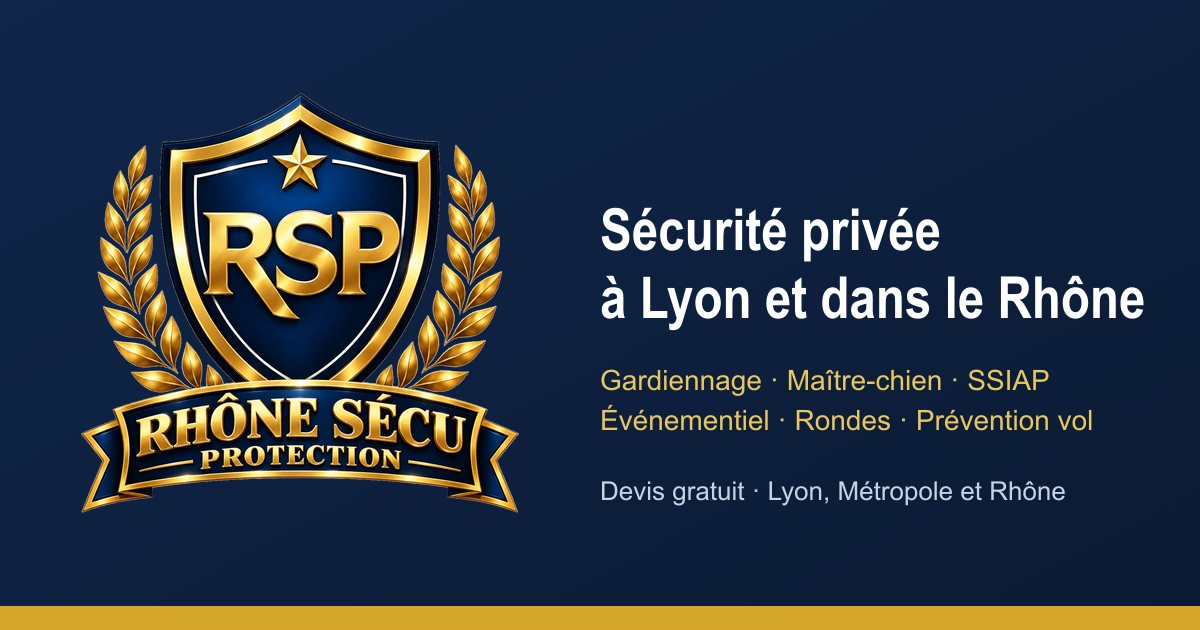
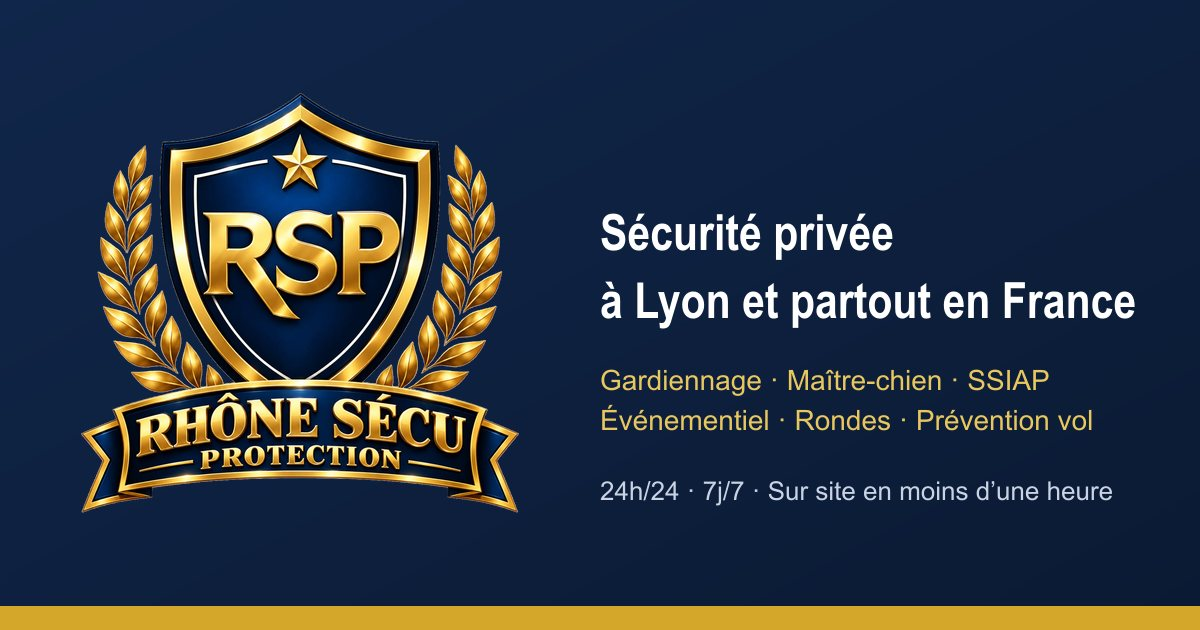
Couverture nationale et disponibilité 24h/24 sur tout le site
Lyon et partout en France, 24h/24 et 7j/7, 365 jours par an, un agent
sur site en moins d'une heure : accroches, méta-descriptions, pages
zones, services, contact, à propos, recrutement, pied de page, FAQ,
JSON-LD (areaServed France), llms.txt et image de partage.

Changed region(s): [[0.4933, 0.3317, 0.9558, 0.5429], [0.4933, 0.754, 0.925, 0.8143]]

diff --git a/site/src/app/page.tsx b/site/src/app/page.tsx
@@ -12,7 +12,7 @@ import { ServiceCard, ServiceCtaCard, ArticleCard } from '@/components/cards';
 export const metadata = pageMeta({
   title: 'Société de sécurité privée à Lyon | Rhône Sécu Protection',
   description:
-    'Gardiennage, agents de sécurité, maître-chien, SSIAP, sécurité événementielle, rondes et intervention à Lyon et dans le Rhône. Devis gratuit.',
+    'Gardiennage, agents de sécurité, maître-chien, SSIAP, sécurité événementielle, rondes et intervention à Lyon et partout en France, 24h/24 et 7j/7. Devis gratuit.',
   path: '/',
 });
 
@@ -45,8 +45,8 @@ const reasons = [
   },
   {
     icon: 'pin' as const,
-    title: 'Une entreprise du Rhône',
-    text: 'Nous connaissons Lyon, sa métropole et ses zones d’activité : des agents proches de vos sites, des déplacements courts.',
+    title: 'Basés à Lyon, présents partout en France',
+    text: 'Nous connaissons Lyon et ses zones d’activité, et nous intervenons partout en France : un agent sur votre site en moins d’une heure, de jour comme de nuit.',
   },
 ];
 
@@ -72,7 +72,11 @@ const faqs = [
   },
   {
     q: 'Dans quelles villes intervenez-vous ?',
-    a: 'À Lyon et dans toute la Métropole (Villeurbanne, Vénissieux, Vaulx-en-Velin, Bron, Saint-Priest, Caluire…) ainsi que dans le département du Rhône, jusqu’à Villefranche-sur-Saône.',
+    a: 'À Lyon et dans toute la Métropole (Villeurbanne, Vénissieux, Vaulx-en-Velin, Bron, Saint-Priest, Caluire…) dans tout le Rhône et partout en France. Où que soit votre site, un agent peut être sur place en moins d’une heure.',
+  },
+  {
+    q: 'Êtes-vous joignables la nuit, le week-end et les jours fériés ?',
+    a: 'Oui. Nous sommes disponibles 24h/24 et 7j/7, 365 jours par an, jours fériés compris.',
   },
   {
     q: 'Quelle différence entre un agent de sécurité et une ronde ?',
@@ -103,13 +107,13 @@ export default function HomePage() {
         />
         <div className="hero__veil" aria-hidden="true" />
         <div className="container hero__content">
-          <p className="eyebrow eyebrow--light">Sécurité privée · Lyon &amp; Rhône</p>
+          <p className="eyebrow eyebrow--light">Sécurité privée · Lyon &amp; partout en France</p>
           <h1 className="hero__title">
             Société de sécurité privée à <em>Lyon</em>
           </h1>
           <p className="hero__lead">
             Rhône Sécu Protection protège vos sites, vos équipes et votre public : gardiennage, maître-chien, sécurité
-            incendie, événementiel, rondes et intervention sur alarme, dans la Métropole de Lyon et tout le Rhône.
+            incendie, événementiel, rondes et intervention sur alarme, à Lyon et partout en France, 24h/24 et 7j/7.
           </p>
           <div className="hero__actions">
             <Link href="/contact/" className="btn btn--primary">
@@ -130,10 +134,13 @@ export default function HomePage() {
               <Icon name="badge" size={18} /> Agents titulaires de la carte CNAPS
             </li>
             <li>
-              <Icon name="clock" size={18} /> Jour, nuit, week-ends et jours fériés
+              <Icon name="clock" size={18} /> Disponibles 24h/24 et 7j/7
             </li>
             <li>
-              <Icon name="check" size={18} /> Missions ponctuelles ou contrats
+              <Icon name="check" size={18} /> Intervention 365 jours par an
+            </li>
+            <li>
+              <Icon name="bolt" size={18} /> Un agent sur votre site en moins d’une heure, à Lyon et partout en France
             </li>
           </ul>
         </div>
@@ -262,10 +269,10 @@ export default function HomePage() {
           />
           <div>
             <p className="eyebrow">Zones d’intervention</p>
-            <h2 className="section__title">Lyon, la Métropole et tout le Rhône</h2>
+            <h2 className="section__title">Lyon, le Rhône et partout en France</h2>
             <p>
-              Nos agents interviennent dans les 9 arrondissements de Lyon, dans les communes de la Métropole et dans le
-              département du Rhône.
+              Nos agents interviennent dans les 9 arrondissements de Lyon, dans les communes de la Métropole, dans tout le
+              Rhône et partout en France, avec un agent sur votre site en moins d’une heure.
             </p>
             <ul className="zones" style={{ marginBottom: '1.5rem' }}>
               {mainCities.map((c) => (

diff --git a/site/src/app/zones-intervention/page.tsx b/site/src/app/zones-intervention/page.tsx
@@ -7,9 +7,9 @@ import { Breadcrumbs, CtaBand, JsonLd } from '@/components/bits';
 import { Icon } from '@/components/Icon';
 
 export const metadata = pageMeta({
-  title: 'Zones d’intervention : Lyon, Métropole et Rhône | RSP',
+  title: 'Zones d’intervention : Lyon, Rhône et toute la France | RSP',
   description:
-    'Agents de sécurité à Lyon, Villeurbanne, Vénissieux, Vaulx-en-Velin, Bron, Saint-Priest, Caluire et dans tout le Rhône jusqu’à Villefranche-sur-Saône.',
+    'Agents de sécurité à Lyon, Villeurbanne, Vénissieux, Vaulx-en-Velin, Bron, Saint-Priest, Caluire, dans tout le Rhône et partout en France. Un agent sur site en moins d’une heure, 24h/24.',
   path: '/zones-intervention/',
 });
 
@@ -34,6 +34,11 @@ const groups = [
     cities: site.zones.rhone,
     text: 'Au-delà de la Métropole, nous sécurisons entreprises, chantiers et événements dans le Rhône, du Beaujolais à l’Ouest lyonnais, avec des missions planifiées ou ponctuelles.',
   },
+  {
+    title: 'Partout en France',
+    cities: [] as string[],
+    text: 'Votre site est hors du Rhône ? Nous intervenons partout en France, 24h/24 et 7j/7, 365 jours par an : un agent de sécurité sur votre site en moins d’une heure, pour une mission ponctuelle comme pour un contrat.',
+  },
 ];
 
 export default function ZonesPage() {
@@ -44,10 +49,10 @@ export default function ZonesPage() {
         <div className="container">
           <Breadcrumbs items={crumbs} />
           <p className="eyebrow">Zones d’intervention</p>
-          <h1 className="page-head__title">Sécurité privée à Lyon, dans la Métropole et le Rhône</h1>
+          <h1 className="page-head__title">Sécurité privée à Lyon et partout en France</h1>
           <p className="page-head__lead">
-            Rhône Sécu Protection intervient sur tout le territoire du Rhône. Une ville ne figure pas dans la liste ?
-            Contactez-nous : nous étudions chaque demande.
+            Rhône Sécu Protection intervient à Lyon, dans tout le Rhône et partout en France, 24h/24 et 7j/7. Votre ville ne
+            figure pas dans la liste ? Contactez-nous : un agent peut être sur place en moins d’une heure.
           </p>
         </div>
       </header>
@@ -58,13 +63,15 @@ export default function ZonesPage() {
             <article key={g.title} className="zone-group">
               <h2>{g.title}</h2>
               <p>{g.text}</p>
-              <ul className="zones">
+              {g.cities.length > 0 && (
+                <ul className="zones">
                 {g.cities.map((c) => (
                   <li key={c}>
                     <Icon name="pin" size={16} /> {c}
                   </li>
                 ))}
-              </ul>
+                </ul>
+              )}
             </article>
           ))}
         </div>
@@ -73,15 +80,15 @@ export default function ZonesPage() {
       <section className="section section--mist">
         <div className="container">
           <div className="section__head">
-            <p className="eyebrow">Sur toutes ces communes</p>
-            <h2 className="section__title">Toutes nos prestations, partout dans le Rhône</h2>
+            <p className="eyebrow">Partout où vous êtes</p>
+            <h2 className="section__title">Toutes nos prestations, partout en France</h2>
           </div>
           <ul className="checklist" style={{ columns: '18rem', display: 'block' }}>
             {services.map((s) => (
               <li key={s.slug} style={{ marginBottom: '0.65rem', breakInside: 'avoid' }}>
                 <Icon name="check" size={18} />{' '}
                 <Link href={s.path}>
-                  {s.short} à Lyon et dans le Rhône
+                  {s.short} à Lyon et partout en France
                 </Link>
               </li>
             ))}
@@ -89,7 +96,7 @@ export default function ZonesPage() {
         </div>
       </section>
 
-      <CtaBand title="Votre site est dans le Rhône ?" />
+      <CtaBand title="Votre site est à Lyon ou ailleurs en France ?" />
       <JsonLd data={breadcrumbLd(crumbs)} />
     </>
   );

diff --git a/site/src/lib/jsonld.ts b/site/src/lib/jsonld.ts
@@ -12,13 +12,14 @@ const RHONE = {
   containedInPlace: { '@type': 'Country', name: 'France', identifier: 'FR' },
 };
 
-/** Communes desservies : chaque ville rattachée au Rhône, lui-même en France. */
+/** Zone desservie : les communes du Rhône (chacune rattachée au département), puis toute la France. */
 function areaServed() {
   const cities = [...new Set(['Lyon', ...site.zones.metropole, ...site.zones.rhone])];
   return [
     ...cities.map((name) => ({ '@type': 'City', name, containedInPlace: RHONE })),
     { '@type': 'AdministrativeArea', name: 'Métropole de Lyon' },
     RHONE,
+    { '@type': 'Country', name: 'France', identifier: 'FR' },
   ];
 }
 
@@ -38,7 +39,7 @@ export function businessLd() {
         name: site.name,
         alternateName: site.shortName,
         description:
-          'Entreprise de sécurité privée à Lyon et dans le Rhône : gardiennage, agents de sécurité, maître-chien, sécurité incendie SSIAP, sécurité événementielle, rondes et intervention sur alarme, prévention des vols en magasin, gardiennage de chantier.',
+          'Entreprise de sécurité privée à Lyon et partout en France, disponible 24h/24 et 7j/7 : gardiennage, agents de sécurité, maître-chien, sécurité incendie SSIAP, sécurité événementielle, rondes et intervention sur alarme, prévention des vols en magasin, gardiennage de chantier.',
         url: canonical('/'),
         logo: { '@type': 'ImageObject', url: `${site.baseUrl}/brand/logo-rsp.png` },
         image: `${site.baseUrl}${media.hero.src}`,

diff --git a/site/src/app/services/page.tsx b/site/src/app/services/page.tsx
@@ -7,7 +7,7 @@ import { ServiceCard, ServiceCtaCard } from '@/components/cards';
 export const metadata = pageMeta({
   title: 'Prestations de sécurité privée à Lyon | RSP',
   description:
-    'Gardiennage, maître-chien, SSIAP, événementiel, rondes, sécurité magasin et chantier : nos prestations de sécurité privée à Lyon et dans le Rhône.',
+    'Gardiennage, maître-chien, SSIAP, événementiel, rondes, sécurité magasin et chantier : nos prestations de sécurité privée à Lyon et partout en France, 24h/24 et 7j/7.',
   path: '/services/',
 });
 
@@ -24,7 +24,7 @@ export default function ServicesPage() {
         <div className="container">
           <Breadcrumbs items={crumbs} />
           <p className="eyebrow">Nos services</p>
-          <h1 className="page-head__title">Prestations de sécurité privée à Lyon et dans le Rhône</h1>
+          <h1 className="page-head__title">Prestations de sécurité privée à Lyon et partout en France</h1>
           <p className="page-head__lead">
             Sept métiers complémentaires, combinables selon votre site : de l’agent en poste fixe à l’équipe
             cynophile, du contrôle des entrées d’un concert à la levée de doute sur alarme.

diff --git a/site/src/app/a-propos/page.tsx b/site/src/app/a-propos/page.tsx
@@ -66,8 +66,8 @@ export default function AboutPage() {
               connaissent leurs consignes, et un interlocuteur qui répond quand il y a un problème.
             </p>
             <p>
-              C’est ce que nous construisons, mission après mission : une sécurité de proximité, à Lyon et dans tout le
-              Rhône, avec des agents qualifiés et une organisation qui laisse peu de place à l’improvisation.
+              C’est ce que nous construisons, mission après mission : une sécurité réactive, à Lyon et partout en
+              France, 24h/24 et 7j/7, avec des agents qualifiés et une organisation qui laisse peu de place à l’improvisation.
             </p>
           </div>
           <Image

diff --git a/site/src/app/contact/page.tsx b/site/src/app/contact/page.tsx
@@ -10,7 +10,7 @@ import { ContactForm } from '@/components/ContactForm';
 export const metadata = pageMeta({
   title: 'Devis sécurité privée gratuit à Lyon | Rhône Sécu Protection',
   description:
-    'Demandez un devis gratuit pour du gardiennage, un maître-chien, des agents SSIAP, la sécurité d’un événement ou des rondes à Lyon et dans le Rhône.',
+    'Demandez un devis gratuit pour du gardiennage, un maître-chien, des agents SSIAP, la sécurité d’un événement ou des rondes à Lyon et partout en France. Disponibles 24h/24 et 7j/7.',
   path: '/contact/',
 });
 

diff --git a/site/src/app/recrutement/page.tsx b/site/src/app/recrutement/page.tsx
@@ -39,7 +39,7 @@ export default function RecrutementPage() {
           <p className="eyebrow">Recrutement</p>
           <h1 className="page-head__title">Rejoignez Rhône Sécu Protection</h1>
           <p className="page-head__lead">
-            Nous recherchons régulièrement des agents sérieux et qualifiés pour des missions à Lyon et dans le Rhône,
+            Nous recherchons régulièrement des agents sérieux et qualifiés pour des missions à Lyon et partout en France,
             en poste fixe ou en renfort ponctuel.
           </p>
         </div>

diff --git a/site/src/components/Footer.tsx b/site/src/components/Footer.tsx
@@ -15,7 +15,7 @@ export function Footer() {
         <div className="footer__about">
           <Logo />
           <p>
-            Entreprise de sécurité privée à Lyon et dans le Rhône. Gardiennage, maître-chien, sécurité incendie,
+            Entreprise de sécurité privée à Lyon et partout en France, 24h/24 et 7j/7. Gardiennage, maître-chien, sécurité incendie,
             événementiel, rondes et intervention.
           </p>
           <div className="footer__contact">

diff --git a/site/src/components/AsideCta.tsx b/site/src/components/AsideCta.tsx
@@ -7,7 +7,7 @@ export function AsideCta({ title = 'Besoin d’agents ?' }: { title?: string }) 
   return (
     <div className="aside-cta">
       <p className="aside-cta__title">{title}</p>
-      <p>Devis gratuit et détaillé, à Lyon et dans tout le Rhône.</p>
+      <p>Devis gratuit et détaillé, à Lyon et partout en France. Disponibles 24h/24 et 7j/7.</p>
       <Link href="/contact/" className="btn btn--primary btn--block">
         Demander un devis
       </Link>

diff --git a/site/src/lib/site.ts b/site/src/lib/site.ts
@@ -11,7 +11,7 @@ export const site = {
   name: 'Rhône Sécu Protection',
   shortName: 'RSP',
   legalName: 'Rhône Sécu Protection',
-  tagline: 'Société de sécurité privée à Lyon et dans le Rhône',
+  tagline: 'Société de sécurité privée à Lyon et partout en France',
   // Domaine encore à choisir avec le client : sert aux canoniques, au sitemap et au JSON-LD.
   baseUrl: 'https://www.rhone-secu-protection.fr',
   email: 'lyoncasa@hotmail.fr',

diff --git a/site/src/app/services/[slug]/page.tsx b/site/src/app/services/[slug]/page.tsx
@@ -48,7 +48,7 @@ export default async function ServicePage({ params }: Props) {
       <DocPage
         doc={s}
         crumbs={crumbs}
-        eyebrow="Service · Lyon et Rhône"
+        eyebrow="Service · Lyon et partout en France"
         image={media[s.image]}
         imageAlt={ALT[s.slug] ?? s.short}
         aside={<AsideCta />}

diff --git a/site/src/content/services/07-gardiennage-chantier.md b/site/src/content/services/07-gardiennage-chantier.md
@@ -5,7 +5,7 @@ meta_description: Gardiennage de chantier à Lyon : agents de nuit, maître-chie
 mot_cle: gardiennage de chantier Lyon
 ---
 
-# Gardiennage de chantier à Lyon et dans le Rhône
+# Gardiennage de chantier à Lyon et partout en France
 
 Engins, outillage, câbles en cuivre, matériaux stockés : un chantier est une cible facile, surtout la nuit et le week-end. Un vol ne coûte pas seulement le matériel : il retarde le planning, déclenche des pénalités et décourage les équipes. Rhône Sécu Protection protège les chantiers des entreprises du BTP, des promoteurs et des maîtres d’ouvrage dans la Métropole de Lyon et le Rhône.
 
@@ -43,4 +43,4 @@ Dès que des matériaux ou des engins de valeur restent sur place hors des heure
 Pour un chantier étendu ou isolé, nous recommandons un maître-chien ou une liaison régulière avec notre permanence, afin que l’agent ne soit jamais sans contact.
 
 **Pouvez-vous intervenir avec un délai court ?**
-Oui, dans la mesure de nos disponibilités. Précisez la date de démarrage souhaitée dans votre demande de devis.
+Oui. Nous sommes disponibles 24h/24 et 7j/7, et un agent peut être sur votre chantier en moins d’une heure, à Lyon et partout en France.
